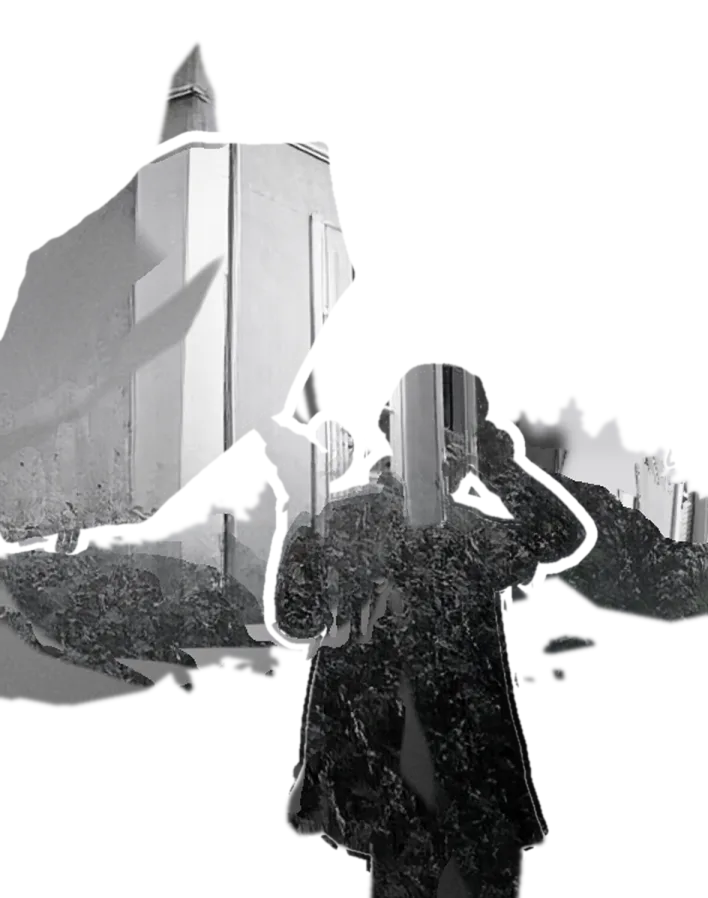
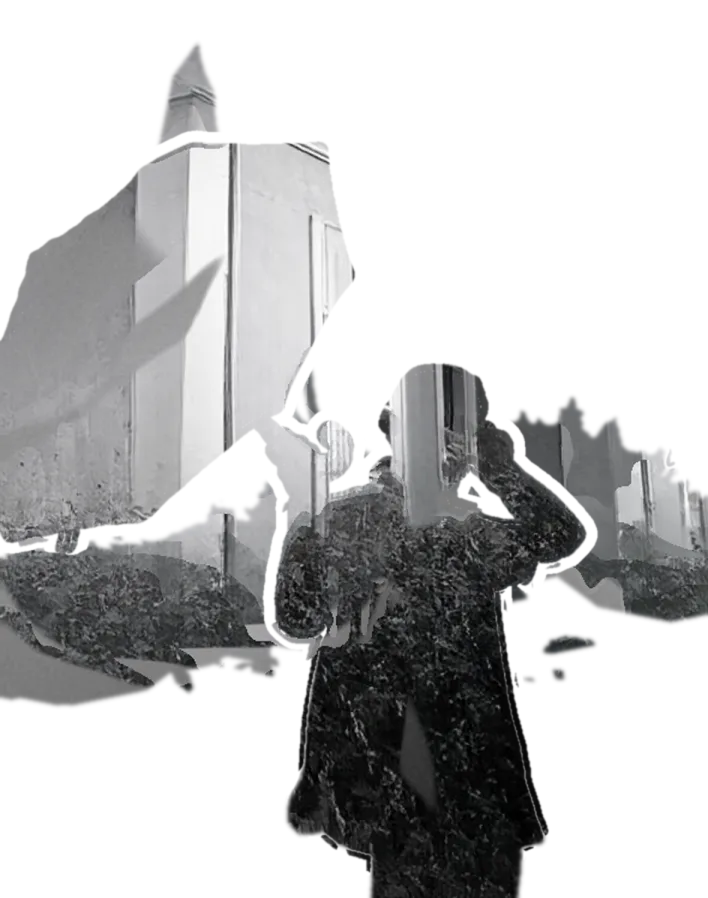
Depth files for strength 2.5: near things as one layer for Alchemist and Model, more fill levels
Claude-Session: https://claude.ai/code/session_01TZpFkBRf53oRw7ttcKpWKk

diff --git a/tools/tiefe/dateien.py b/tools/tiefe/dateien.py
@@ -12,7 +12,7 @@ src, out = sys.argv[1], sys.argv[2]
 NX, R = 208, 130                    # mesh grid, reach of the fill (half-res px)
 S2 = 0.6                            # size of the two overlays relative to the working size (they hold no fine detail)
 BW = 0.05                           # mirror fill: depth step that separates surfaces behind
-REACH = 130                          # largest shift between near and far on the page (half-res px; strength 250 %, most of a swipe)
+REACH = 130                          # largest shift between near and far on the page (half-res px; strength 120 %, whole swipe)
 # JUMP: depth step that counts as a real edge (two layers, something gets uncovered). Smaller steps (jaw against hair, an arm
 #       in front of the body) are not cut: the picture just stretches a few pixels there. Was 0.10: cut inside faces, light
 #       crescents at the jaw (Hugo's recording 26.11.).
@@ -25,6 +25,13 @@ raw = np.clip(np.load(src + '/depth_raw.npy').astype(np.float32), 0, 1)
 # depth curve: spread middle and far, hold the nearest things back (no "runaway" foreground)
 dr = np.tanh(1.3 * raw ** 0.65) / np.tanh(1.3)
 q0 = float(np.quantile(dr, 0.05)); dr = np.clip((dr - q0) / (1 - q0), 0, 1)   # the far background sits at 0, so it stays put
+# Near things move together (Hugo 26.11.: strength 2.5). With two layers only one surface can lie behind an edge. At this strength
+# a shoulder in front of a neck in front of the background tore open in black. So the near half of the depth range is pressed
+# together: shoulder, neck and face become one layer that moves as a whole in front of what is far.
+# Per photo (environment variable TIEFE_NAH, 0 = off): good for one subject in front of a plain background (Alchemist, Model 2.5).
+# In a scene with much in the middle distance (Creator, Singer) it makes walls and furniture move too much, so it stays off there.
+NEAR = float(os.environ.get('TIEFE_NAH', '0'))
+if NEAR > 0: dr = np.tanh(NEAR * dr) / np.tanh(NEAR)
 dr = cv2.GaussianBlur(dr, (0, 0), 1.0)
 hw, hh = W // 2, H // 2
 ds = cv2.resize(dr, (hw, hh), interpolation=cv2.INTER_AREA)
@@ -136,9 +143,9 @@ if LAMA and near.any():
     nb = int(1 / BW) + 1
     lb = np.clip(np.floor(lo_s / BW).astype(int), 0, nb - 1)
     cnt = np.bincount(lb[near], minlength=nb)
-    used = sorted(int(j) for j in np.argsort(-cnt)[:8] if cnt[j] > 150)
+    used = sorted(int(j) for j in np.argsort(-cnt)[:14] if cnt[j] > 150)
     if used:
-        lut = np.array([min(used, key=lambda u: abs(u - j)) for j in range(nb)])        # levels without their own run use the closest one
+        lut = np.array([min(used, key=lambda u: (abs(u - j), -u)) for j in range(nb)])        # levels without their own run use the closest one
         _, labn = cv2.distanceTransformWithLabels((~near).astype(np.uint8), cv2.DIST_L2, 5, labelType=cv2.DIST_LABEL_PIXEL)
         lutb = np.zeros(labn.max() + 1, np.int32); lutb[labn[near]] = lut[lb[near]]; lev = lutb[labn]   # the rim takes the level next to it
         reach = cv2.dilate(M0, E(12)) > 0                    # the rim outside gets a fill too (24 px)
